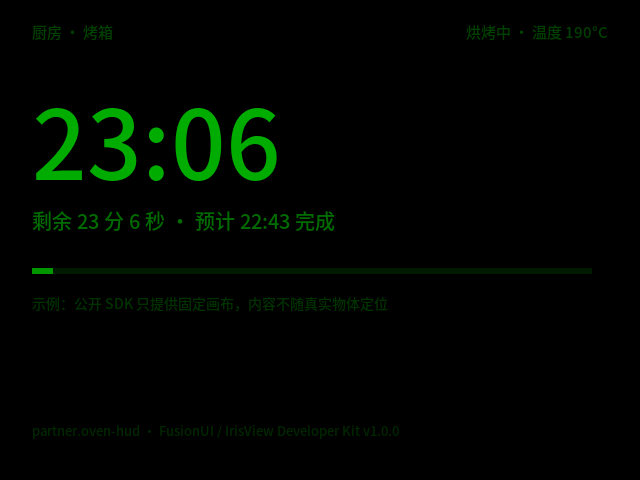
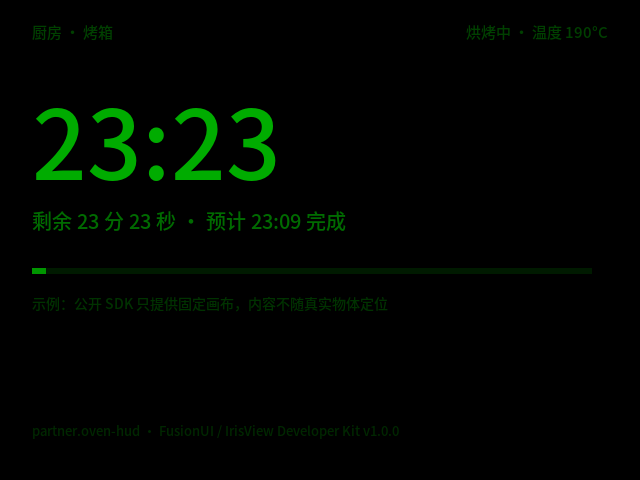
chore: add vite-plus node pin, host bypass and dev scripts

Changed region(s): [[0.25, 0.2188, 0.4375, 0.375], [0.1875, 0.4375, 0.5625, 0.5]]

diff --git a/HUD3D-烤箱倒计时-可行性调研.md b/HUD3D-烤箱倒计时-可行性调研.md
@@ -200,7 +200,7 @@ const win = Window.create(p);    // 没有位置、朝向、锚点参数
 
 ![烤箱倒计时 HUD 的 PoC 运行画面](figures/oven-hud-poc.png)
 
-> 这是模拟器/Client 左眼预览的真实截图（640×480），不是设计稿。截图时倒计时显示 23:06，运行中按秒递减，说明文本、布局、秒级更新与呈现链路可用。
+> 这是模拟器/Client 左眼预览的真实截图（640×480），不是设计稿。截图时倒计时显示 23:23，运行中按秒递减，说明文本、布局、秒级更新与呈现链路可用。
 > PoC 源码：[src/index.js](src/index.js)。为了便于观察，PoC 用了全屏排版；实际产品可以缩成右上角 200×100 的小卡片，其余保持黑色（透视）。
 
 **这个 PoC 证明了什么：**
@@ -394,7 +394,7 @@ vp run clean        # 删除 dist/ 与 release/
 ```
 
 `npm run <script>` 同样可用：`scripts/kit.sh` 发现当前 Node 不是 24.13.0 时，
-会自动用 `vp env exec --node 24.13.0` 重新执行自己。
+会自动通过 Vite+ 解析 `.node-version` 并切换到 pin 的 Node。
 
 脚本分层：
 

diff --git a/README.md b/README.md
@@ -46,7 +46,9 @@ scripts/preflight.mjs  调用 Kit 前的快速检查
 | `vp run clean` | 删除 `dist/` 与 `release/` |
 
 `npm run <script>` 同样可用：`scripts/kit.sh` 发现当前 Node 不是 24.13.0 时，
-会自动用 `vp env exec --node 24.13.0` 重新执行自己。
+会自动通过 Vite+ 解析 `.node-version` 并切换到 pin 的 Node。
+
+> `vp run` 会提示“项目未迁移到 Vite+”，可以忽略；这里只用它做 Node 版本管理与任务运行。
 
 ## 环境变量
 
